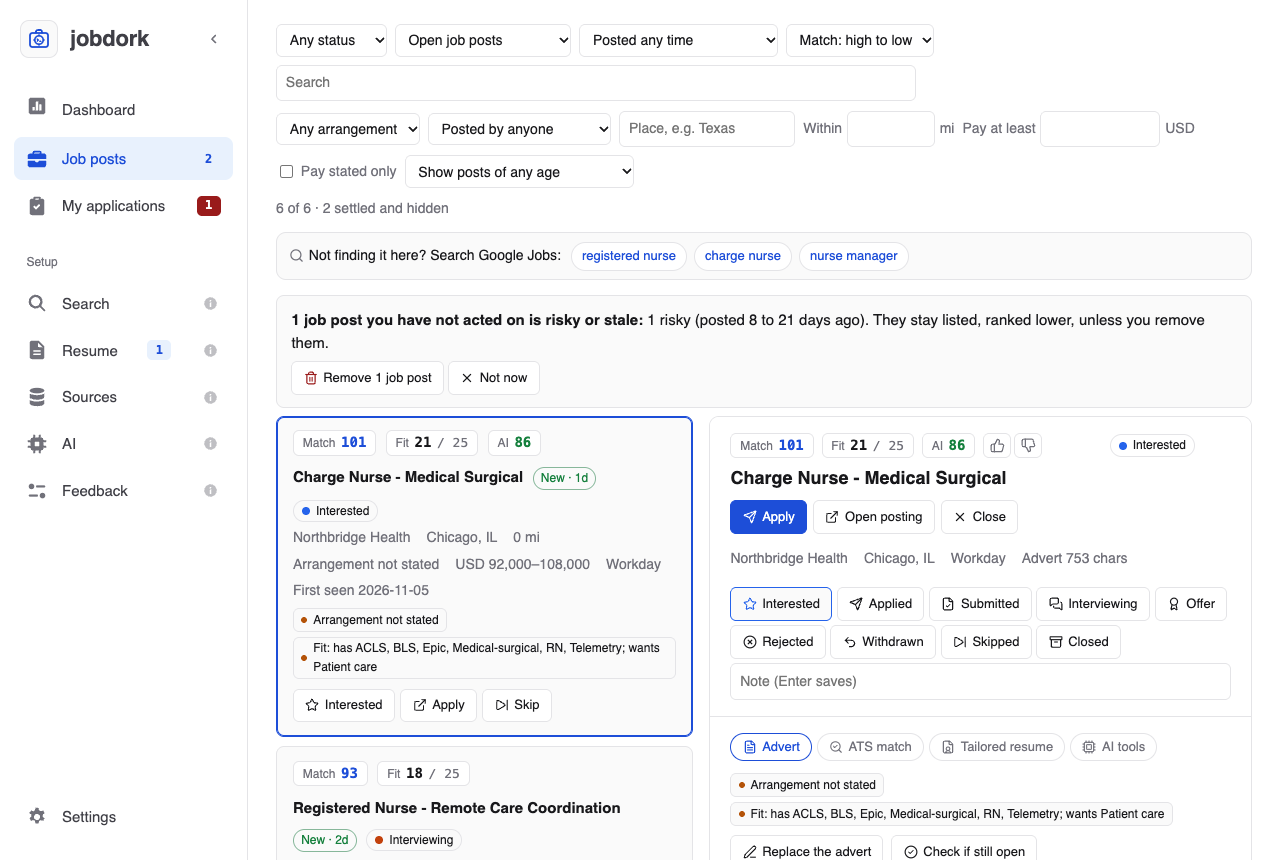
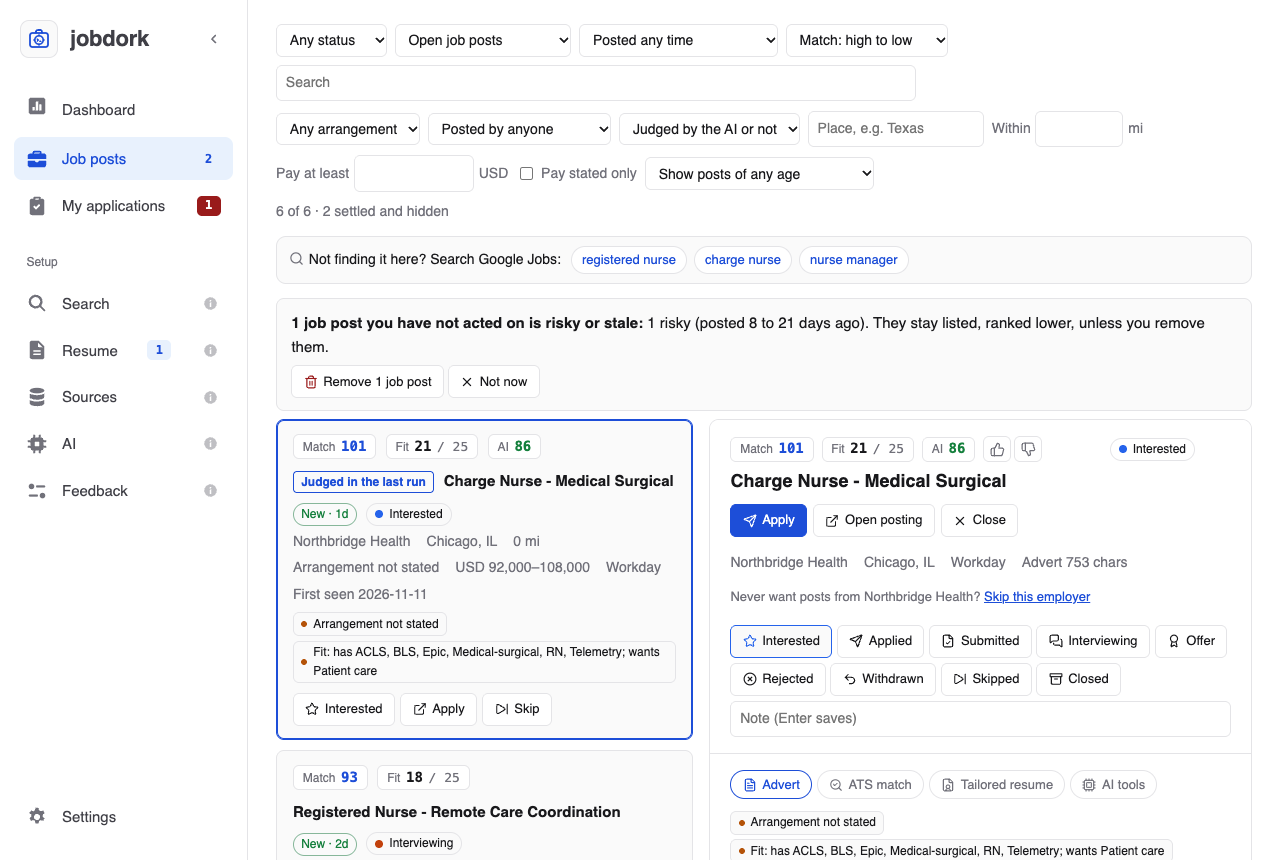
feat: employers to skip (see docs/changes/skip-employers.md)

diff --git a/jobdork/data/dashboard.html b/jobdork/data/dashboard.html
@@ -1581,6 +1581,18 @@ main > #view-setup.welcome{max-width:46rem;margin-top:3.5rem}
       <div class="clearall" id="clear-exclude"></div>
       </div>
       <div class="sgroup">
+      <h3>Employers to skip</h3>
+      <p class="hint">Job posts from these employers are dropped wherever they come
+        from: a past employer, or a staffing agency that floods your results. Case and
+        endings like Inc or LLC do not matter: "Acme" skips "ACME Corp.", not "Acme Health".</p>
+      <div id="ed-skip"></div>
+      <form class="bar addform" id="f-skip">
+        <input id="add-skip" placeholder="An employer's name, e.g. Acme Staffing">
+        <button data-icon="plus" class="act primary">Add</button><span id="msg-skip"></span>
+      </form>
+      <div class="clearall" id="clear-skip"></div>
+      </div>
+      <div class="sgroup">
       <h3>Your certifications and licenses</h3>
       <p class="hint">An opened job post checks the ones its advert asks for against
         these and your resume. Write them as adverts do: RN, BLS, CPA, CDL, CISSP.</p>
@@ -2268,7 +2280,7 @@ async function loadRoles(opts = {}) {
 const RULE_WORDS = {title: 'title not searched for', age: 'too old (ghost listing)',
   closed: 'advert says it is closed', 'work mode': 'work arrangement',
   location: 'too far or wrong country', salary: 'pay below your floor',
-  dealbreaker: 'dealbreaker'};
+  dealbreaker: 'dealbreaker', employer: 'an employer you skip'};
 // Rendering tens of thousands of cards would hang the tab.
 const DROPPED_SHOWN = 300;
 
@@ -2826,6 +2838,17 @@ const TAB_LABEL = {tools: 'AI tools', ats: 'ATS match', application: 'applicatio
 const PDF_KINDS = ['tailored_resume', 'cv'];
 const tabLabel = t => TAB_LABEL[t] || t.replace('_', ' ');
 
+// Adds the employer to Search's Employers to skip; the re-screen that a save
+// starts drops its posts. Taken back by removing it there.
+async function skipEmployer(company) {
+  if (!cfg) cfg = await (await api('/api/config')).json();
+  const have = cfg.skip_employers || [];
+  if (have.some(n => n.toLowerCase() === company.toLowerCase())) {
+    toast(`${company} is already skipped.`); return;
+  }
+  if (await saveList('skip_employers', [...have, company], 'msg-skip')) closeDetail();
+}
+
 function drawDetail(tab) {
   const d = detail;
   detailTab = tab;
@@ -2860,6 +2883,9 @@ function drawDetail(tab) {
         title="${esc(cap(c.note || 'not checked yet'))} · last listed ${esc(c.last_seen)} · advert ${c.advert_chars} chars">${
         esc(platformName(c.platform))}${c.listing ? ' ' + listingTag({state: c.listing, note: c.note, checked_at: ''}, true) : ''}</a>`).join('')
     }<span class="hint">A status set here applies to every copy.</span></div>` : ''}
+    ${d.company ? `<div class="hint skipemp" style="width:100%">Never want posts from ${esc(d.company)}?
+      <button type="button" class="act linkish" data-company="${esc(d.company)}"
+        onclick="skipEmployer(this.dataset.company)">Skip this employer</button></div>` : ''}
     ${d.poster && d.poster.agency ? `<div class="hint" style="width:100%">Posted by a recruitment
       firm: ${esc(d.poster.why)}. The employer may be named in the advert, or only to you.</div>` : ''}
     ${overlapBox(d.overlap, true)}
@@ -5895,7 +5921,7 @@ function toast(text, kind = 'ok', action = null) {
 const LIST_NAMES = {titles_include: 'Job titles', titles_exclude: 'Never show these titles',
   credentials: 'Your certifications and licenses',
   countries: 'Countries to keep job posts from', dealbreakers: 'Dealbreakers',
-  companies: 'Employer boards'};
+  companies: 'Employer boards', skip_employers: 'Employers to skip'};
 const rowName = (key, r) => typeof r === 'string'
   ? (key === 'countries' ? ((placeCountries || []).find(c => c.code === r) || {}).name || r : r)
   : r.name;
@@ -6035,7 +6061,8 @@ function drawLists() {
   for (const [box, key, msg, empty] of [
       ['ed-titles', 'titles_include', 'msg-titles', 'None yet. A scan needs at least one.'],
       ['ed-exclude', 'titles_exclude', 'msg-exclude', 'None. Every title is kept.'],
-      ['ed-credentials', 'credentials', 'msg-credentials', 'None listed.']]) {
+      ['ed-credentials', 'credentials', 'msg-credentials', 'None listed.'],
+      ['ed-skip', 'skip_employers', 'msg-skip', 'None. Posts from every employer are kept.']]) {
     const rows = cfg[key] || [];
     $(box).innerHTML = editorTable(word, rows, empty, key);
     wireRemove($(box), rows, async next => await saveList(key, next, msg) && (drawLists(), true));
@@ -6065,6 +6092,7 @@ function drawLists() {
   drawClearAll('clear-titles', 'titles_include', 'msg-titles', 'job titles', true);
   drawClearAll('clear-exclude', 'titles_exclude', 'msg-exclude', 'titles you never want shown', false);
   drawClearAll('clear-deal', 'dealbreakers', 'msg-deal', 'dealbreakers', false);
+  drawClearAll('clear-skip', 'skip_employers', 'msg-skip', 'employers to skip', false);
 }
 
 // One add handler per form: read it, refuse the obvious, append, save.
@@ -6094,6 +6122,7 @@ wireAdd('f-countries', 'msg-countries', () =>
 wireAdd('f-titles', 'msg-titles', addWord('add-title', 'titles_include'), 'titles_include');
 wireAdd('f-exclude', 'msg-exclude', addWord('add-exclude', 'titles_exclude'), 'titles_exclude');
 wireAdd('f-credentials', 'msg-credentials', addWord('add-credential', 'credentials'), 'credentials');
+wireAdd('f-skip', 'msg-skip', addWord('add-skip', 'skip_employers'), 'skip_employers');
 // Dealbreakers are words; the server turns them into a pattern, with the
 // usual other wordings (search/dealbreakers.py). A typed phrase that names a
 // common one takes its name and its usual effect.

diff --git a/tests/test_skip_employers.py b/tests/test_skip_employers.py
@@ -1,0 +1,75 @@
+"""
+Employers to skip (asked 2026-11-11): posts from a named employer are
+dropped wherever they come from, compared without case or "Inc"/"LLC", and
+a change to the list re-screens. No network.
+
+    python tests/test_skip_employers.py
+"""
+
+from __future__ import annotations
+
+import sys
+import tempfile
+from pathlib import Path
+
+sys.path.insert(0, str(Path(__file__).resolve().parent.parent))
+
+from jobdork.core import config as config_mod
+from jobdork.core import setup
+from jobdork.core.config import Config
+from jobdork.db.store import Role
+from jobdork.search import screen
+from jobdork.web import serve
+
+
+def _cfg(**kw) -> Config:
+    cfg = Config(titles_include=["Nurse"])
+    for k, v in kw.items():
+        setattr(cfg, k, v)
+    return cfg
+
+
+def _role(company: str) -> Role:
+    return Role(platform="greenhouse", title="Registered Nurse", company=company,
+                url="https://x.test/1", location_raw="Remote", work_mode="remote")
+
+
+def test_a_skipped_employer_is_dropped_however_it_is_written():
+    cfg = _cfg(skip_employers=["Acme Staffing", "Initech"])
+    for company in ("Acme Staffing", "ACME STAFFING, Inc.", "Acme Staffing LLC", "initech corp."):
+        verdict = screen.screen(_role(company), cfg)
+        assert not verdict.keep and verdict.rule == "employer", company
+        assert "an employer you skip" in verdict.reasons[0]
+    assert screen.skipped_employer("Acme Staffing Health", cfg) == ""
+    assert screen.skipped_employer("", cfg) == ""
+    assert screen.screen(_role("Lakeview Hospital"), cfg).rule != "employer"
+
+
+def test_the_list_is_saved_tidy_and_loaded_back():
+    with tempfile.TemporaryDirectory() as tmp:
+        path = Path(tmp) / "config.yaml"
+        path.write_text("titles:\n  include: [Nurse]\n", encoding="utf-8")
+        setup.write(str(path), {"skip_employers": ["  Acme   Staffing ", "Initech", "", "acme staffing"]})
+        cfg = config_mod.load(str(path))
+        assert sorted(n.casefold() for n in cfg.skip_employers) == ["acme staffing", "initech"]
+
+
+def test_a_change_to_the_list_re_screens_and_is_named():
+    old, fresh = _cfg(), _cfg(skip_employers=["Initech"])
+    assert serve._screen_key(old) != serve._screen_key(fresh)
+    assert "Employers to skip: added Initech" in serve.change_words(old, fresh)
+
+
+if __name__ == "__main__":
+    failures = 0
+    tests = [(name, fn) for name, fn in sorted(globals().items())
+             if name.startswith("test_") and callable(fn)]
+    for name, fn in tests:
+        try:
+            fn()
+            print(f"ok   {name}")
+        except BaseException as exc:
+            failures += 1
+            print(f"FAIL {name}: {type(exc).__name__}: {exc}")
+    print(f"{len(tests) - failures}/{len(tests)} passed")
+    raise SystemExit(1 if failures else 0)

diff --git a/jobdork/web/serve.py b/jobdork/web/serve.py
@@ -245,6 +245,7 @@ def _screen_key(cfg) -> str:
     return json.dumps({
         "titles": [cfg.titles_include, cfg.titles_exclude],
         "dealbreakers": [(d.name, d.pattern, d.hard, d.words) for d in cfg.dealbreakers],
+        "skip_employers": sorted(n.casefold() for n in cfg.skip_employers),
         "locations": asdict(cfg.locations), "salary": asdict(cfg.salary),
         "screening": asdict(cfg.screening), "ghost_days": cfg.freshness.ghost_days,
     }, sort_keys=True, default=str)
@@ -265,7 +266,8 @@ def change_words(old, fresh) -> str:
             ("Search", old.titles_include, fresh.titles_include),
             ("Never show", old.titles_exclude, fresh.titles_exclude),
             ("Countries", old.locations.countries, fresh.locations.countries),
-            ("Dealbreakers", [d.name for d in old.dealbreakers], [d.name for d in fresh.dealbreakers])):
+            ("Dealbreakers", [d.name for d in old.dealbreakers], [d.name for d in fresh.dealbreakers]),
+            ("Employers to skip", old.skip_employers, fresh.skip_employers)):
         added, gone = diff(a, b), diff(b, a)
         if added or gone:
             said.append(f"{label}: " + "; ".join(
@@ -332,6 +334,7 @@ def _config_payload(cfg) -> dict:
                           "hard": d.hard}
                          for d in cfg.dealbreakers],
         "dealbreaker_suggestions": _deal_suggestions(),
+        "skip_employers": cfg.skip_employers,
         "update_check": cfg.update_check,
         "remember_keys": cfg.remember_keys,
         "ask_on_close": cfg.ask_on_close,

diff --git a/jobdork/search/screen.py b/jobdork/search/screen.py
@@ -495,6 +495,18 @@ def _explain_fit(match, resume, description: str) -> str:
 
 # ── The whole screen ───────────────────────────────────────────────────────────
 
+def skipped_employer(company: str, cfg: Config) -> str:
+    """The name in skip_employers this post's employer matches, or "".
+    Compared as advert names are (agency.core_name): "Acme" skips "ACME
+    Corp." and "Acme, Inc.", not "Acme Health"."""
+    from .agency import core_name
+
+    have = core_name(company)
+    if not have:
+        return ""
+    return next((n for n in cfg.skip_employers if core_name(n) == have), "")
+
+
 def screen(
     role: Role,
     cfg: Config,
@@ -521,6 +533,12 @@ def screen(
     # one — and this used to overwrite them wholesale at the end, so anything
     # the fetch layer knew never reached the database.
     verdict.flags.extend(role.flags)
+
+    skipped = skipped_employer(role.company, cfg)
+    if skipped:
+        verdict.keep, verdict.rule = False, "employer"
+        verdict.reasons.append(f"an employer you skip ({skipped})")
+        return verdict
 
     matched, why, points = title_verdict(role.title, cfg)
     if not matched:

diff --git a/jobdork/core/config.py b/jobdork/core/config.py
@@ -524,6 +524,10 @@ class Config:
     screening: Screening = field(default_factory=Screening)
     freshness: Freshness = field(default_factory=Freshness)
     dealbreakers: list[Dealbreaker] = field(default_factory=list)
+    # Employers whose posts are dropped wherever they come from (a past
+    # employer, a staffing agency that floods results), compared without
+    # case or "Inc", "LLC" and the like (search/screen.py).
+    skip_employers: list[str] = field(default_factory=list)
     resume_path: str = ""
     # "master" or "regular" as you said (search/master.py), or "" for jobdork's guess.
     resume_kind: str = ""
@@ -816,6 +820,8 @@ def _build(raw: dict[str, Any]) -> Config:
 
     for i, entry in enumerate(raw.get("dealbreakers") or []):
         cfg.dealbreakers.append(_dealbreaker(i, entry))
+    cfg.skip_employers = [n.strip() for n in _str_list(raw.get("skip_employers"), "skip_employers")
+                          if n.strip()]
 
     scr = raw.get("screening") or {}
     cfg.screening = Screening(

diff --git a/jobdork/core/setup.py b/jobdork/core/setup.py
@@ -240,6 +240,14 @@ def rewrite(original: str, payload: dict) -> str:
     if "dealbreakers" in payload:
         data["dealbreakers"] = [_deal_row(d) for d in payload["dealbreakers"] or []
                                 if isinstance(d, dict)]
+    if "skip_employers" in payload:
+        # One of each, however it is cased: the first spelling given is kept.
+        names: dict[str, str] = {}
+        for raw in payload["skip_employers"] or []:
+            name = " ".join(str(raw).split())
+            if name:
+                names.setdefault(name.casefold(), name)
+        data["skip_employers"] = sorted(names.values(), key=str.casefold)
     if "companies" in payload:
         data.setdefault("sources", {})["companies"] = [
             {"name": str(c.get("name") or "").strip(),

diff --git a/scripts/guide_demo.py b/scripts/guide_demo.py
@@ -79,6 +79,7 @@ salary:
 dealbreakers:
   - {words: "night shift only", hard: false}
   - {words: "travel nursing", hard: true}
+skip_employers: [Apex Travel Staffing]
 resume:
   path: {resume}
 db: {db}

diff --git a/docs/changes/skip-employers.md b/docs/changes/skip-employers.md
@@ -1,0 +1,26 @@
+## Added — 2026-11-11 — Employers to skip
+
+Asked for on 2026-11-11. A list of employers whose job posts are dropped
+wherever they come from (Adzuna, Workable, USAJOBS, the built-in employer
+boards, your own boards): a past employer, one you would never work for, a
+staffing agency that floods your results. Built-in boards could already be
+switched off one by one, and keyword sources as a whole, but nothing took
+an employer out of every source; dealbreakers read the advert, not the
+company.
+
+- **Search → Employers to skip**: add, remove, or remove all, like the other
+  lists (`skip_employers` in the config, one of each however it is cased).
+- **Skip this employer** in the job post window adds its employer in one
+  click and closes the window.
+- Names are compared as advert names are, without case or endings like Inc,
+  LLC and Corp (`agency.core_name`): "Acme" skips "ACME Corp." and "Acme,
+  Inc.", not "Acme Health". A skipped post is dropped first, before its
+  title is read, with the reason "an employer you skip" on Job posts'
+  Dropped list (`screen.skipped_employer`).
+- A change re-screens the stored posts, named on the Dashboard's queue
+  ("Employers to skip: added Initech").
+
+The guide's Search and job window pages and `docs/CONFIG.md` say so, with
+`search.png` and `job-window.png` retaken (the demo skips one agency).
+tests/test_skip_employers.py covers the matching, the save and load, and
+the re-screen.

diff --git a/guide/docs/search.md b/guide/docs/search.md
@@ -29,6 +29,20 @@ Several short titles find more than one long one: *registered nurse* and
 Words that drop a post when its title contains them: *intern*, *travel*,
 *senior* if you are not. The advert is not read for these, only the title.
 
+## Employers to skip {#skip-employers}
+
+Employers whose job posts you never want: a past employer, or a staffing
+agency that floods your results. Their posts are dropped wherever they come
+from (keyword boards, the built-in employer boards and your own), and the
+ones already stored go at the re-screen a change starts. Case and endings
+like *Inc*, *LLC* or *Corp* do not matter: *Acme* skips *ACME Corp.* and
+*Acme, Inc.*, but not *Acme Health*, a different name.
+
+A dropped post shows on Job posts' **Dropped** list with the reason *an
+employer you skip*. **Skip this employer**, in the
+[job post window](job-window.md#the-top), adds its employer here in one click;
+remove a name here to see its posts again.
+
 ## Your certifications and licenses
 
 The ones you hold, written the way adverts write them: *RN*, *BLS*, *CPA*,

diff --git a/guide/docs/job-window.md b/guide/docs/job-window.md
@@ -21,7 +21,9 @@ window over the page. Both hold the same things.
   **Close** closes the window, or empties the space beside the list.
 - The employer, place, arrangement, source, and how long the stored advert
   is. **Also posted at** lists the other places the same job was found,
-  and whether each is still up.
+  and whether each is still up. **Skip this employer** adds the employer to
+  Search's [Employers to skip](search.md#skip-employers): its posts are
+  dropped, this one with them, and the window closes.
 - **The status buttons** ([what each means](statuses.md#statuses)). The
   current status is outlined in its colour. Under them, your **Note** on the post
   (Enter saves), the same one the card has.

diff --git a/docs/CONFIG.md b/docs/CONFIG.md
@@ -412,6 +412,18 @@ Python flavour, which is what a scan uses.
 
 ---
 
+## skip_employers
+
+```yaml
+skip_employers: [Acme Staffing, Initech]
+```
+
+Employers whose job posts are dropped wherever they come from (the Search
+page's **Employers to skip**). Compared without case or endings like Inc,
+LLC and Corp (`agency.core_name`): `Acme` skips `ACME Corp.`, not `Acme
+Health`. A dropped post's reason is "an employer you skip"
+(`screen.skipped_employer`). Default: empty.
+
 ## screening
 
 Advanced. The judgements built into title matching and arrangement
